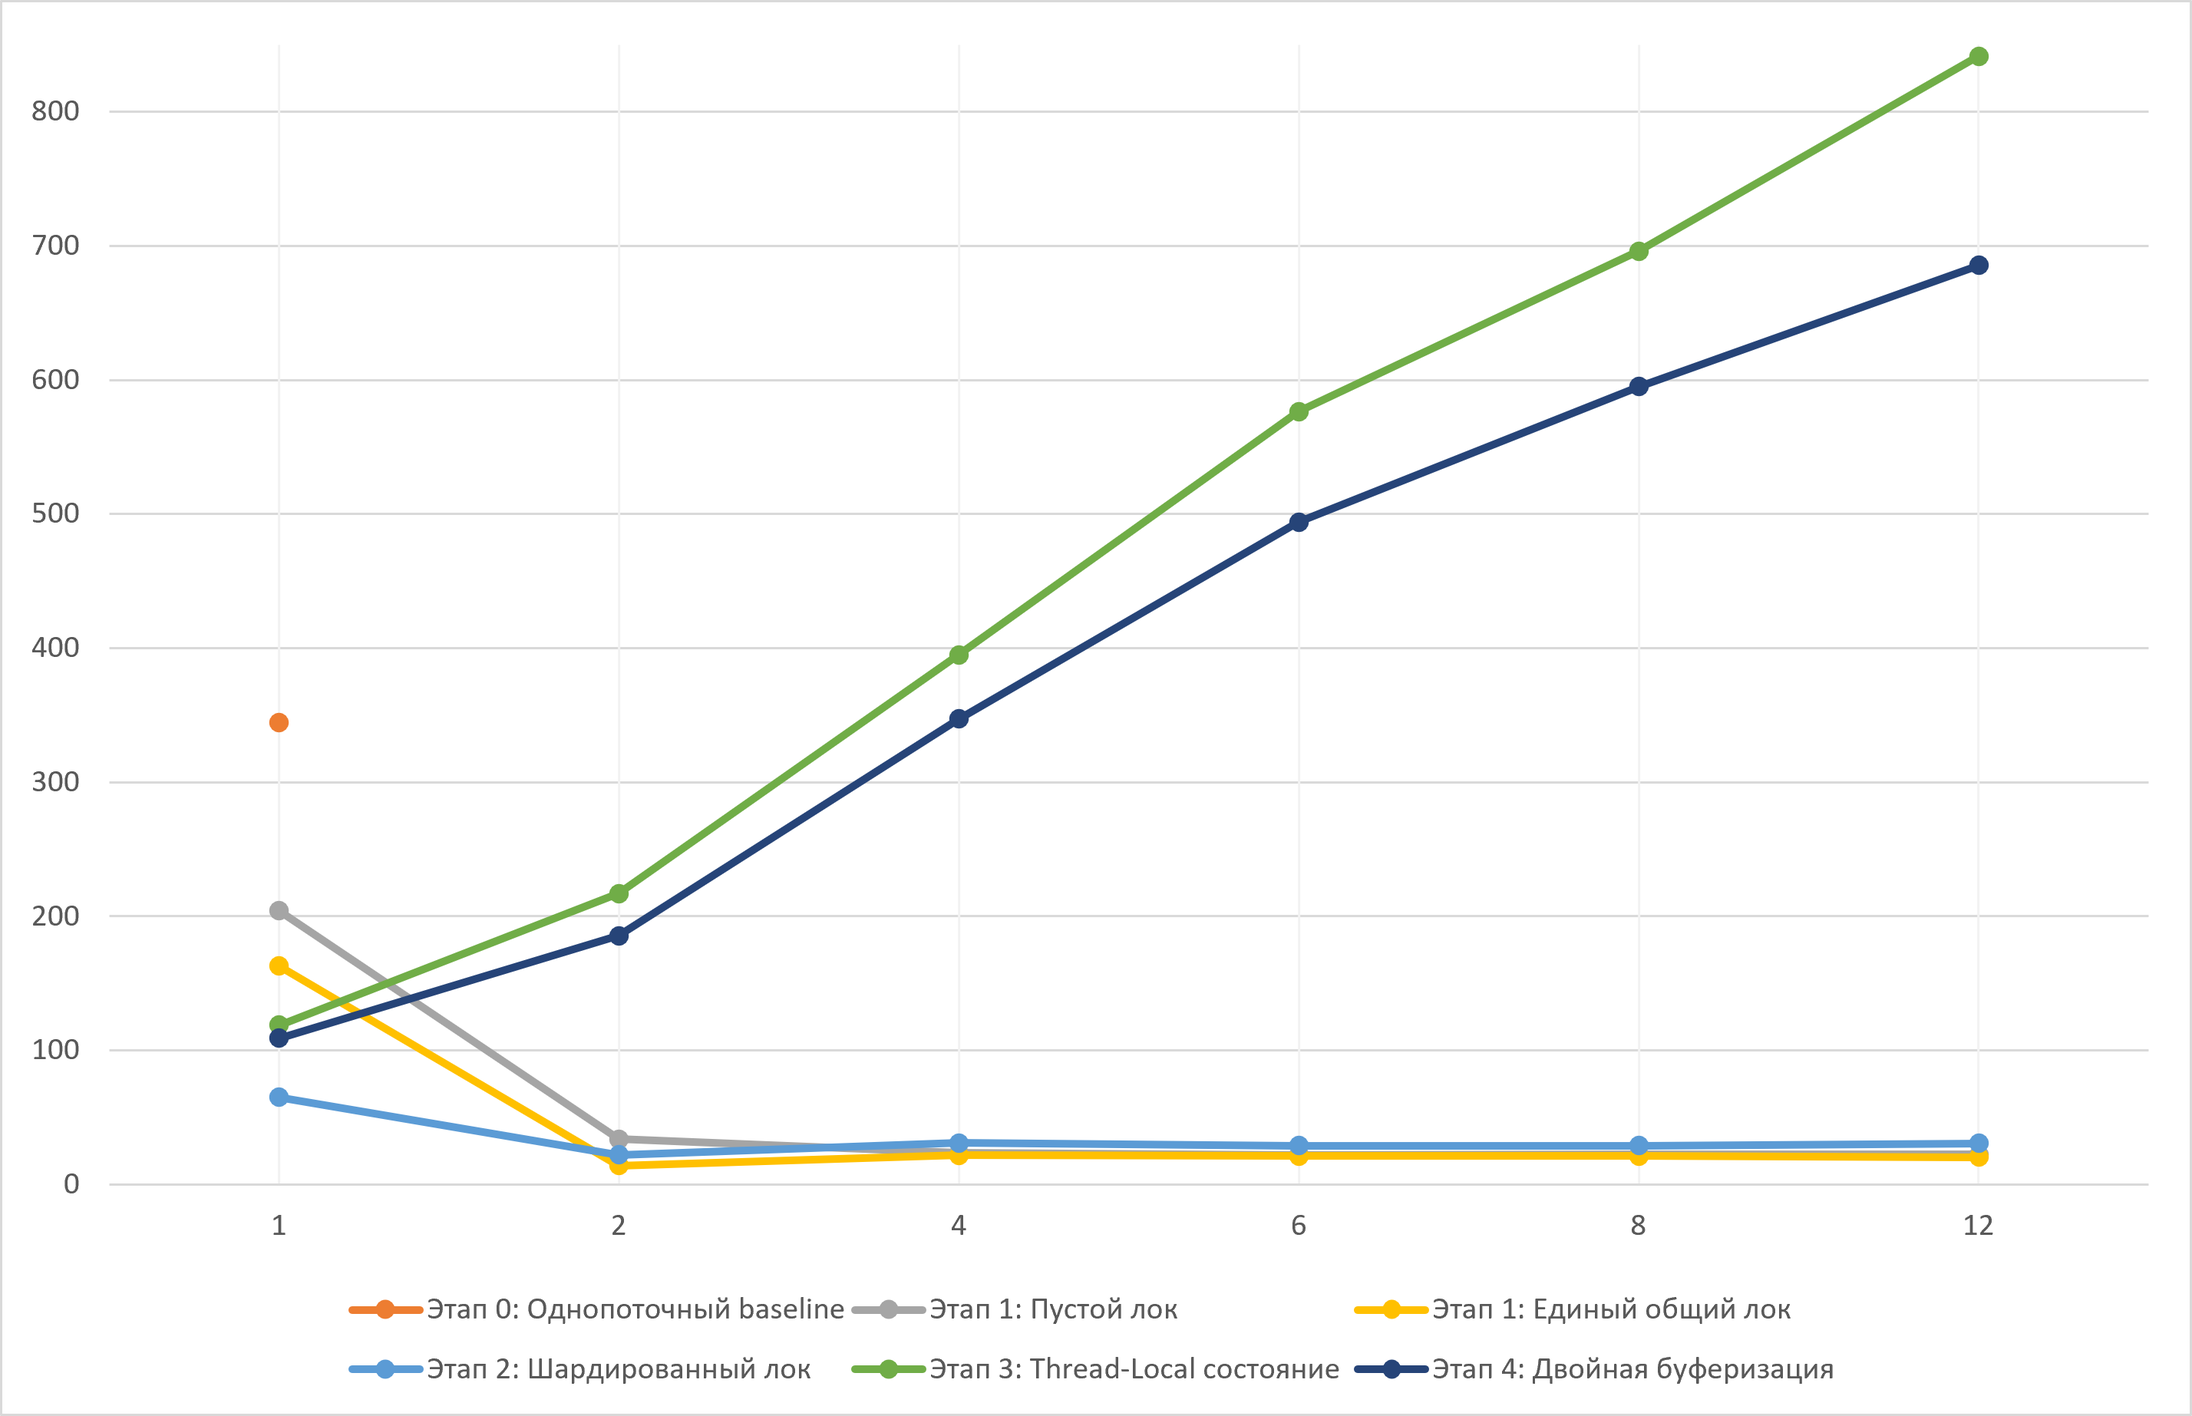
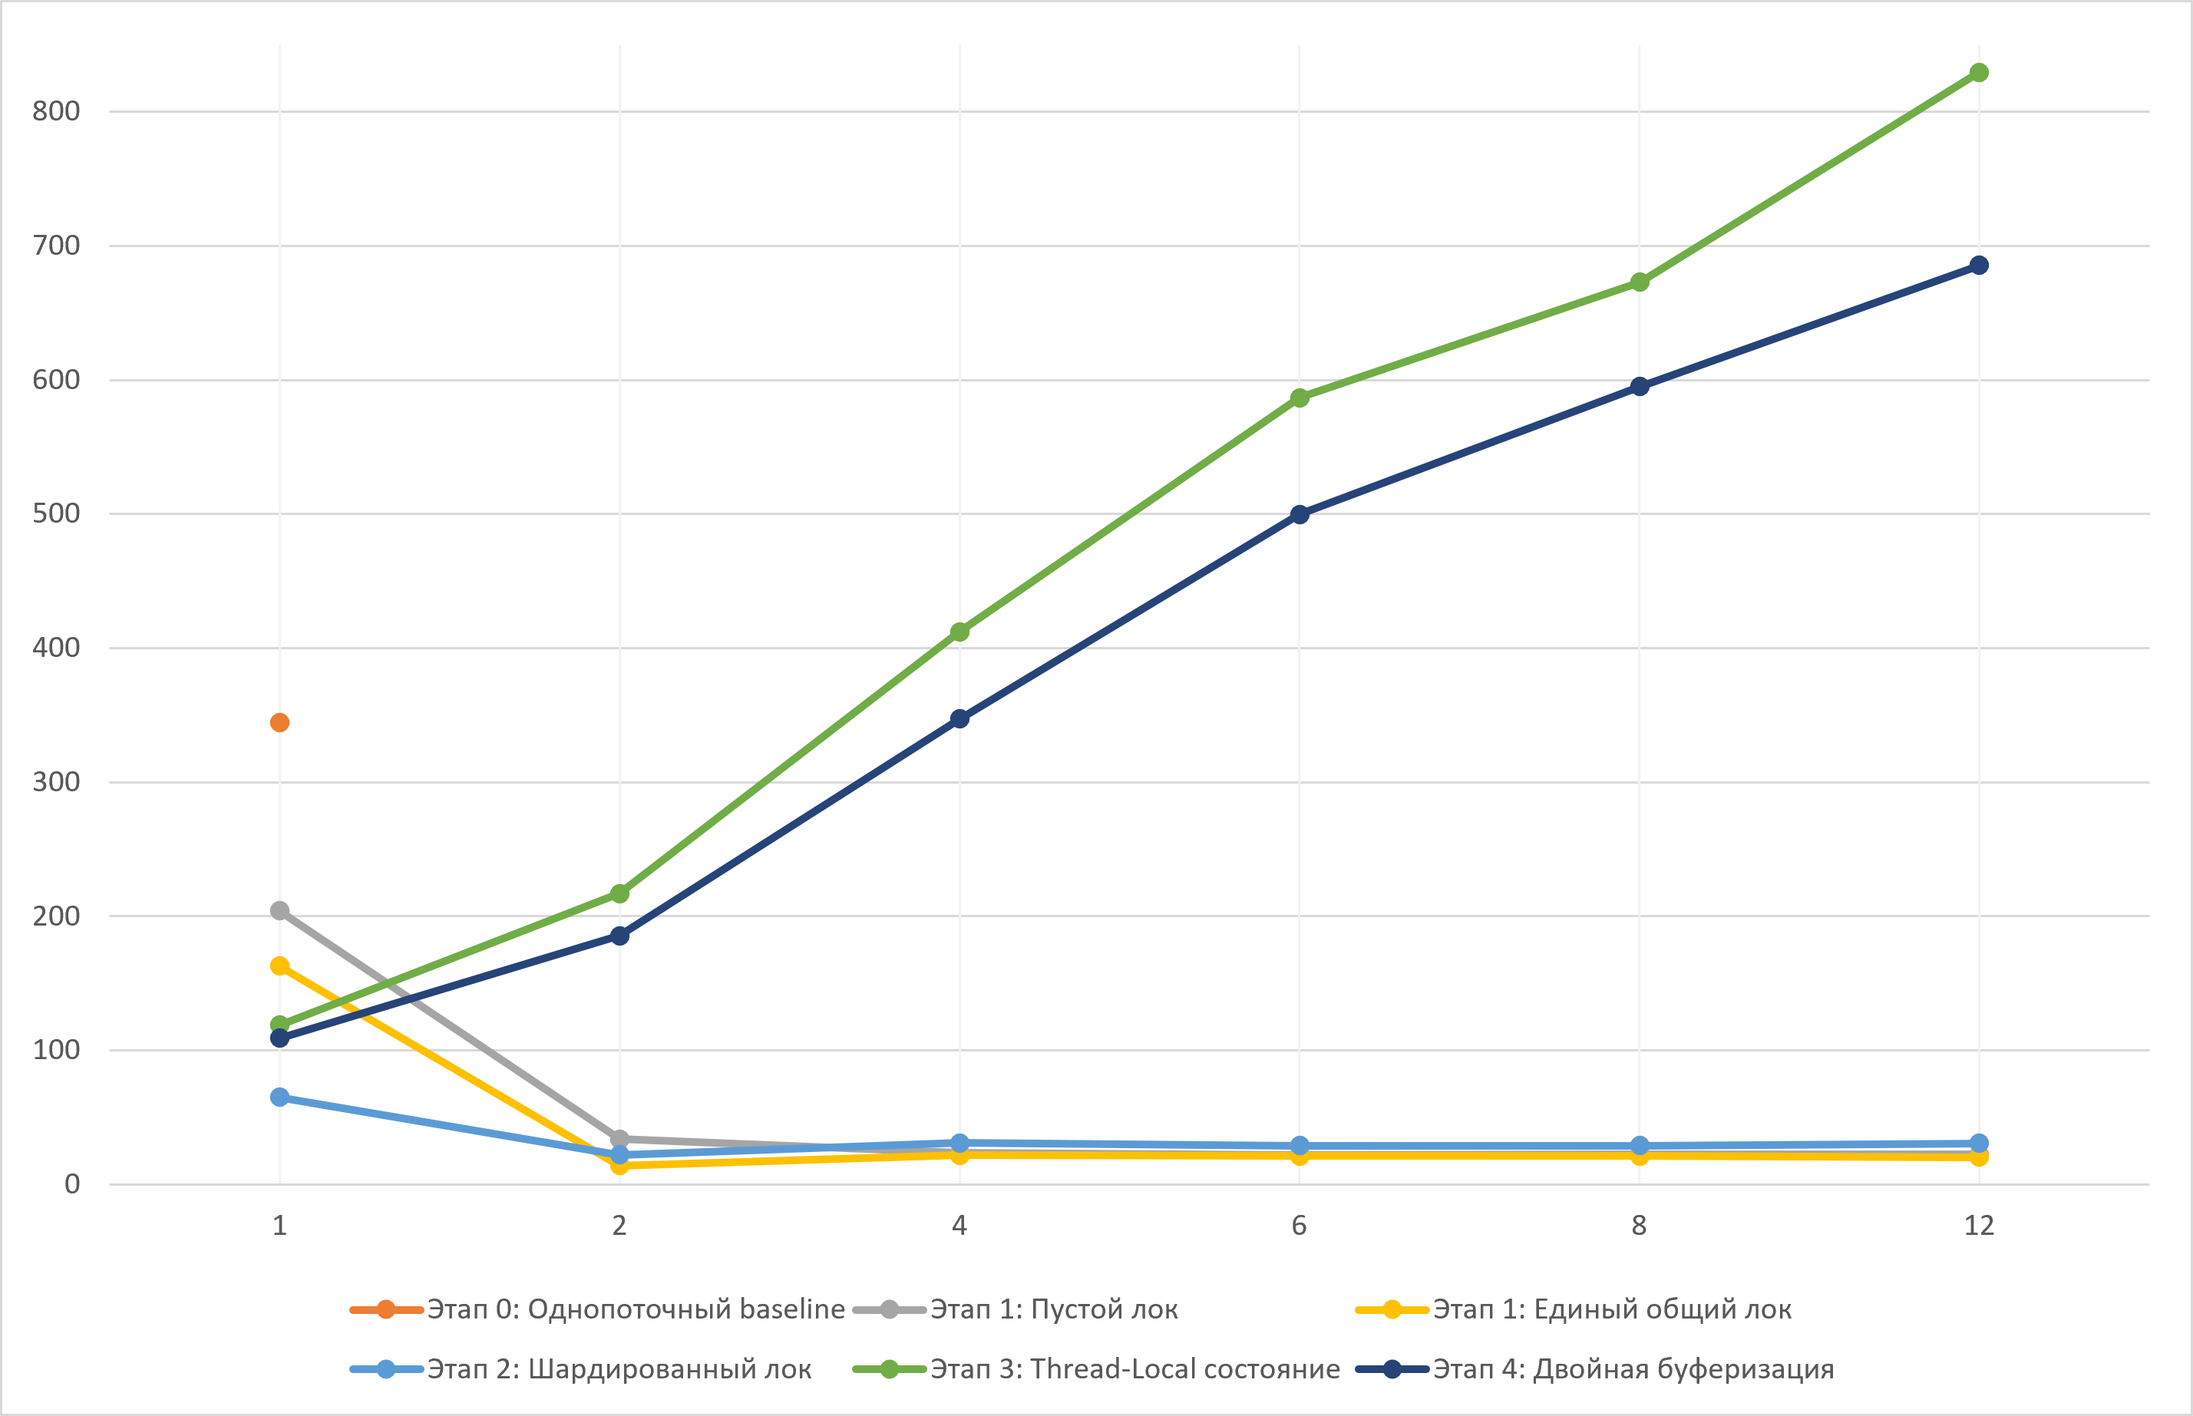
feat: answers for final questions

diff --git a/lab1/README.md b/lab1/README.md
@@ -633,12 +633,12 @@ record(value):
 
 | Число потоков (T)              | 1 поток | 2 потока | 4 потока | 6 потоков | 8 потоков | 12 потоков |
 |:-------------------------------|:-------:|:--------:|:--------:|:---------:|:---------:|:----------:|
-| Этап 0: Однопоточный baseline  | 344.73  |          |          |           |           |            |
+| Этап 0: Однопоточный baseline  | 344.73  |    —     |    —     |     —     |     —     |     —      |
 | Этап 1: Пустой лок             | 204.17  |  33.86   |  23.40   |   22.23   |   22.38   |   22.31    |
 | Этап 1: Единый общий лок       | 162.83  |  14.25   |  21.92   |   21.22   |   21.14   |   20.27    |
 | Этап 2: Шардированный лок      |  65.12  |  22.19   |  30.98   |   28.98   |   29.09   |   30.74    |
-| Этап 3: Thread-Local состояние | 118.85  |  217.13  |  395.13  |  576.60   |  696.18   |   849.21   |
-| Этап 4: Двойная буферизация    | 109.14  |  185.39  |  347.19  |  494.06   |  582.92   |   674.66   |
+| Этап 3: Thread-Local состояние | 118.85  |  217.13  |  412.23  |  586.69   |  673.01   |   829.6    |
+| Этап 4: Двойная буферизация    | 109.14  |  185.39  |  347.19  |  499.66   |  582.92   |   674.66   |
 
 *Приложите сюда ссылку или файл со сводным графиком всех реализаций (млн оп/сек от числа потоков):*  
 ![Сводный график](src/main/resources/benchmarks.png)
@@ -648,17 +648,17 @@ record(value):
 
 | Реализация                                        | Доля битых снимков (sum != count) | Снимок: sum < count | Снимок: sum > count | Итоговый count − число вызовов (после join) |
 |:--------------------------------------------------|:---------------------------------:|:-------------------:|:-------------------:|:-------------------------------------------:|
-| Этап 2: Шардированный лок                         |              81.24%               |      28933 раз      |      11687 раз      |                      0                      |
-| Этап 3: Thread-Local состояние (локальные данные) |              99.98%               |      49987 раз      |        2 раз        |                      0                      |
+| Этап 2: Шардированный лок                         |              81.24%               |     28933 раза      |      11687 раз      |                      0                      |
+| Этап 3: Thread-Local состояние (локальные данные) |              99.98%               |      49987 раз      |       2 раза        |                      0                      |
 | Этап 4: Двойная буферизация                       |                0%                 |        0 раз        |        0 раз        |                      0                      |
-| Этап 4 (без шага 3): без проверки active          |              99.41%               |      49704 раз      |        0 раз        |                     41                      |
+| Этап 4 (без шага 3): без проверки active          |              99.41%               |     49704 раза      |        0 раз        |                     41                      |
 
 #### 4. Короткие ответы на вопросы (1–2 предложения прямо в таблице)
 
-| Вопрос | Ваш ответ |
-| :--- | :--- |
-| **1. Пустой лок против полного:** Почему пустой лок тоже резко падает с ростом потоков? Что добавляет полная версия? | |
-| **2. Провал шардирования и атомиков:** Почему 16 шардов и атомарная сводка на этапе 2 не спасли скорость записи на законе Ципфа? Куда переехало узкое место? | |
-| **3. Замедление на этапе 3:** Почему на этапе 3 рост скорости замедляется после 8 потоков? Как это связано с выводом `lscpu`? | |
-| **4. Двойная буферизация против TLS:** Почему этап 4 медленнее этапа 3 (в C++ в 2,5–3,5 раза, в Java в 1,1–1,7 раза, а на 16 потоках Java почти догоняет этап 3), но масштабируется почти линейно? В чём разница инструкций при записи? | |
-| **5. Эксперимент с шагом 3:** Что сломалось в тесте на этапе 4, когда вы убрали повторную проверку `active == b`? Почему итоговый `count` расходится с числом вызовов? | |
+| Вопрос                                                                                                                                                                                                                                  | Ваш ответ                                                                                                                                                                                                                                                                                                                                                                                               |
+|:----------------------------------------------------------------------------------------------------------------------------------------------------------------------------------------------------------------------------------------|:--------------------------------------------------------------------------------------------------------------------------------------------------------------------------------------------------------------------------------------------------------------------------------------------------------------------------------------------------------------------------------------------------------|
+| **1. Пустой лок против полного:** Почему пустой лок тоже резко падает с ростом потоков? Что добавляет полная версия?                                                                                                                    | Пустой лок падает из-за операции `synchronized`, которая вынуждает усыплять потоки, будить их, что в силу устройства ОС занимает микросекунды. Также в силу многопоточного исполнения нужно гонять кэш-линии мьютекса, а для полного лока кэши всех переменных.                                                                                                                                         |
+| **2. Провал шардирования и атомиков:** Почему 16 шардов и атомарная сводка на этапе 2 не спасли скорость записи на законе Ципфа? Куда переехало узкое место?                                                                            | Хоть локи и не реализованы наивно (0..15, 15..31 и т.д.), но всё равно 0-й лок принимает на себя порядка трети запросов. Таким образом, быстрый захват непопулярных локов нивелируется необходимостью раз в 2-3 запроса взять 0-й лок, который выступает барьером. Также сами по себе операции с Atomic хоть и безопасные, но вынуждают гонять кэш-линии между потоками.                                |
+| **3. Замедление на этапе 3:** Почему на этапе 3 рост скорости замедляется после 6 потоков? Как это связано с выводом `lscpu`?                                                                                                           | В случае с процессорами без энергоэффективных ядер замедление роста связано с уменьшением доли используемых **физических** ядер взамен *SMT* параллелизма, способного добавить не более 30% ускорения в сравнении с физическими ядрами.                                                                                                                                                                 |
+| **4. Двойная буферизация против TLS:** Почему этап 4 медленнее этапа 3 (в C++ в 2,5–3,5 раза, в Java в 1,1–1,7 раза, а на 12 потоках Java почти догоняет этап 3), но масштабируется почти линейно? В чём разница инструкций при записи? | 3-й этап использует достаточно дешевые release операции записи, а 4-й добавляет рукопожатие с необходимостью повторной проверки буфера и `seq_cst` записью. Но при большом количестве потоков начинает догонять из-за причин, связанных с предыдущим пунктом, а также в упоре в скорость шины и памяти, а масштабируется линейно потому, что писатель так же обращается с своим буфером, не конкурируя. |
+| **5. Эксперимент с шагом 3:** Что сломалось в тесте на этапе 4, когда вы убрали повторную проверку `active == b`? Почему итоговый `count` расходится с числом вызовов?                                                                  | Без повторной проверки `active == b` появляется вероятность того, что читатель прочитает состояние потока перед тем, как он обновит пишущий буфер. Таким образом, читатель подумает, что в буфер никто не пишет, писатель начнет в него писать, в итоге читатель прочитает `count`, который либо обновится впоследствии, либо неатомарно инкрементируется во время зануления, что приведет к задвоению. |
